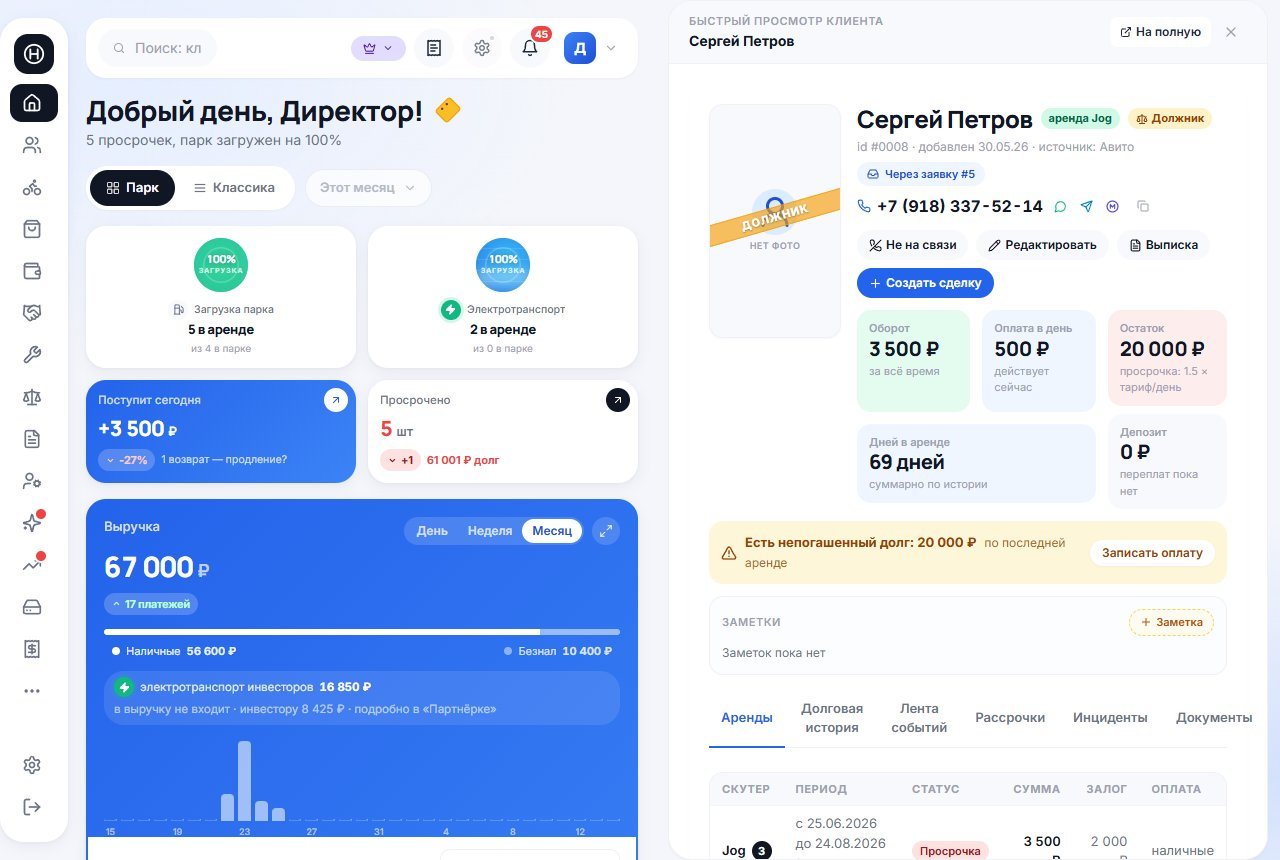
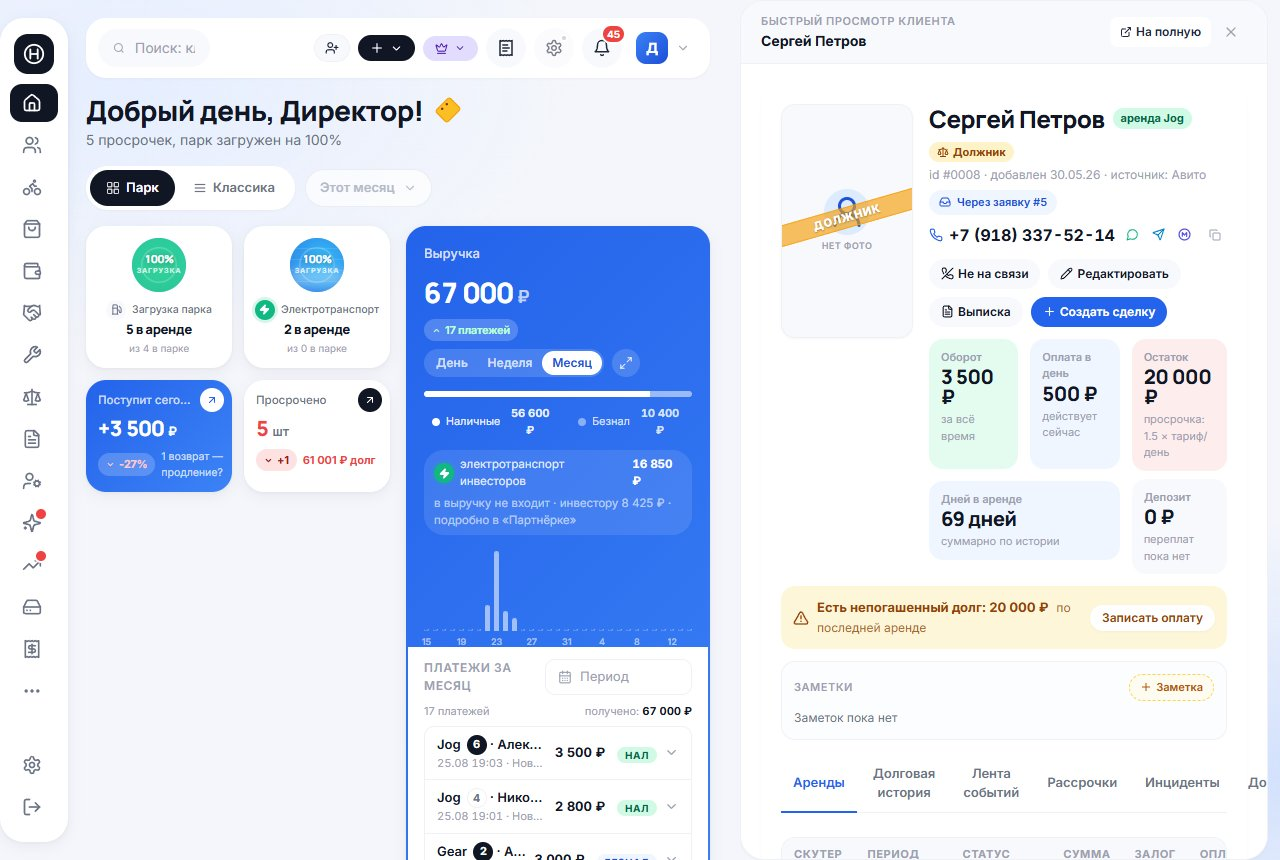
fix(клиент): вкладки карточки переносятся, а не обрезаются краем

diff --git a/apps/web/src/pages/clients/ClientCard.tsx b/apps/web/src/pages/clients/ClientCard.tsx
@@ -541,8 +541,9 @@ export function ClientCard({ client }: { client: Client }) {
         <EntityNotes entity="client" entityId={client.id} />
       </div>
 
-      {/* Tabs */}
-      <div className="mt-1 flex gap-1 border-b border-border">
+      {/* Tabs. В узкой колонке (карточка быстрого просмотра) вкладки
+          переносятся на вторую строку, а не обрезаются краем (01.09). */}
+      <div className="mt-1 flex flex-wrap gap-x-1 border-b border-border">
         {tabs.map((t) => (
           <button
             key={t.id}
